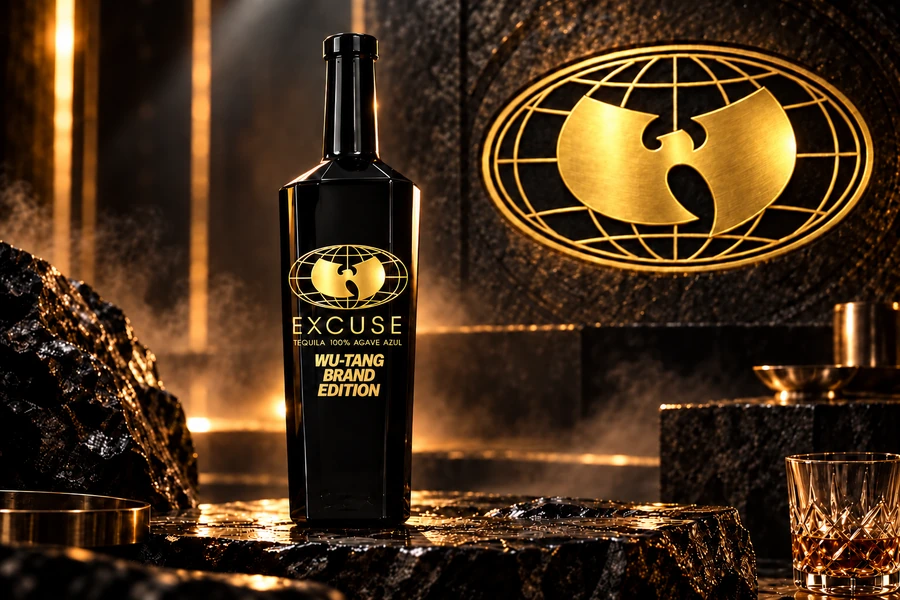
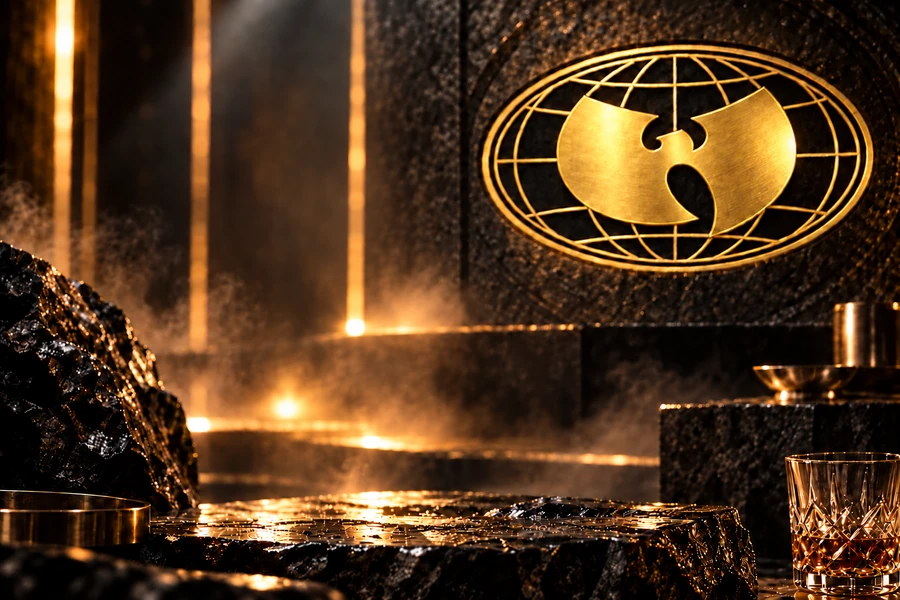
Remove black bottle from hero and edition artwork; revise hero and Reposado copy

diff --git a/client-revision/index.html b/client-revision/index.html
@@ -1,2 +1,2 @@
-<!doctype html><html lang="en"><head><meta charset="utf-8"><meta name="viewport" content="width=device-width,initial-scale=1"><meta name="description" content="Two expressions. One legacy. A cinematic world of culture, craft and collector design."><meta name="robots" content="noindex,nofollow"><meta property="og:title" content="EXCUSE WU TANG BRAND TEQUILA | Culture. Craft. Legacy."><meta property="og:description" content="Two expressions. One legacy. A cinematic world of culture, craft and collector design."><meta property="og:image" content="https://ernestyearby-svg.github.io/wutang-tequila-review/client-revision/assets/bright-gold/hero-desktop.webp"><meta property="og:site_name" content="EXCUSE WU TANG BRAND TEQUILA"><meta name="theme-color" content="#080807"><meta name="twitter:card" content="summary_large_image"><meta name="twitter:title" content="EXCUSE WU TANG BRAND TEQUILA | Culture. Craft. Legacy."><meta name="twitter:description" content="Two expressions. One legacy. A cinematic world of culture, craft and collector design."><title>EXCUSE WU TANG BRAND TEQUILA | Culture. Craft. Legacy.</title><link rel="icon" href="assets/bright-gold/logo-desktop.webp"><link rel="preload" as="image" href="assets/bright-gold/hero-desktop.webp"><link rel="stylesheet" href="styles.css"><script defer src="app.js"></script></head><body><a class="skip" href="#main">Skip to content</a><header class="header"><a class="brand" href="./" aria-label="EXCUSE WU TANG BRAND TEQUILA home"><img src="assets/bright-gold/logo-desktop.webp" width="160" height="101" alt="Approved Wu-Tang emblem"><span>EXCUSE<small>WU TANG BRAND TEQUILA</small></span></a><button class="menu-toggle" aria-controls="navigation" aria-expanded="false" aria-label="Open navigation"><span></span><span></span></button><nav id="navigation" aria-label="Main navigation"><a href="#collection">THE COLLECTION</a><a href="#craft">THE CRAFT</a><a href="#legacy">THE LEGACY</a><a href="collector-goods/">COLLECTOR GOODS</a><a href="#preorder">PRE-ORDER</a></nav></header><main id="main"><section id="home" class="hero immersive"><picture class="scene"><source media="(max-width:900px)" srcset="assets/bright-gold/hero-mobile-mobile.webp 900w, assets/bright-gold/hero-mobile-desktop.webp 1024w" sizes="100vw"><img src="assets/bright-gold/hero-desktop.webp" srcset="assets/bright-gold/hero-tablet.webp 1200w, assets/bright-gold/hero-desktop.webp 1672w" sizes="100vw" width="1672" height="941" alt="Collector decanter, presentation box and Brand Edition bottle on reflective obsidian" fetchpriority=high decoding="async"></picture><div class="hero-copy"><p class="eyebrow">EXCUSE WU TANG BRAND TEQUILA</p><h1>MORE THAN<br>TEQUILA.<em>IT’S A MOVEMENT.</em></h1><p class="strap">TWO EDITIONS. ONE LEGACY.</p><p class="body-copy">A collector expression and a bold brand edition, united by culture, craft, and legacy.</p><div class="actions"><a class="button" href="#preorder">PRE-ORDER <span>↗</span></a><a class="button outline" href="#collection">EXPLORE THE EDITIONS</a></div></div><div class="scene-caption"><span>100% AGAVE AZUL · CULTURE IN EVERY POUR</span><a href="#collection">DISCOVER THE COLLECTION ↓</a></div></section>
-<section id="collection" class="collection section"><div class="section-heading"><p class="eyebrow">01 / THE COLLECTION</p><h2>TWO EXPRESSIONS.<br><em>ONE LEGACY.</em></h2><p>Distinct expressions.<br>A shared cultural legacy.</p></div><div class="editions"><article class="edition"><picture class="scene"><source media="(max-width:900px)" srcset="assets/bright-gold/wu-edition-mobile.webp 900w, assets/bright-gold/wu-edition-desktop.webp 1536w" sizes="100vw"><img src="assets/bright-gold/wu-edition-desktop.webp" srcset="assets/bright-gold/wu-edition-tablet.webp 1200w, assets/bright-gold/wu-edition-desktop.webp 1536w" sizes="100vw" width="1536" height="1024" alt="THE WU EDITION" loading=lazy decoding="async"></picture><div class="edition-copy"><p class="eyebrow">LIMITED. RARE. COLLECTED.</p><h3>THE WU EDITION</h3><p>The collector expression of EXCUSE Tequila x Wu-Tang, presented in a distinctive decanter and collector presentation format.</p><button class="button outline" data-interest="WU Edition">PRE-ORDER WU EDITION<span aria-hidden="true">↗</span></button></div></article><article class="edition"><picture class="scene"><source media="(max-width:900px)" srcset="assets/bright-gold/brand-edition-mobile.webp 900w, assets/bright-gold/brand-edition-desktop.webp 1536w" sizes="100vw"><img src="assets/bright-gold/brand-edition-desktop.webp" srcset="assets/bright-gold/brand-edition-tablet.webp 1200w, assets/bright-gold/brand-edition-desktop.webp 1536w" sizes="100vw" width="1536" height="1024" alt="WU-TANG BRAND EDITION" loading=lazy decoding="async"></picture><div class="edition-copy"><p class="eyebrow">FOR THE WORLD.</p><h3>WU-TANG BRAND EDITION</h3><p>The core expression designed to bring EXCUSE Tequila x Wu-Tang to a broader audience. A new chapter in culture, craft and discovery.</p><button class="button outline" data-interest="WU-TANG Brand Edition">PRE-ORDER BRAND EDITION<span aria-hidden="true">↗</span></button></div></article></div></section><section id="preorder" class="reposado immersive"><picture class="scene"><source media="(max-width:900px)" srcset="assets/bright-gold/reposado-mobile-mobile.webp 900w, assets/bright-gold/reposado-mobile-desktop.webp 1024w" sizes="100vw"><img src="assets/bright-gold/reposado-desktop.webp" srcset="assets/bright-gold/reposado-tablet.webp 1200w, assets/bright-gold/reposado-desktop.webp 1672w" sizes="100vw" width="1672" height="941" alt="Reposado bottle and collector box overlooking the Empire State Building" loading=lazy decoding="async"></picture><div class="reposado-copy"><p class="eyebrow">02 / REPOSADO</p><h2>REPOSADO.<br><em>ROOTED IN<br>CULTURE.</em></h2><p class="strap">COMING SOON</p><p>A bold new EXCUSE Tequila expression created at the intersection of premium spirits, culture and legacy.</p><p class="micro">100% DE AGAVE AZUL</p><button class="button " data-interest="Reposado">RESERVE YOUR BOTTLE<span aria-hidden="true">↗</span></button></div></section><section id="craft" class="craft immersive"><picture class="scene"><source media="(max-width:900px)" srcset="assets/bright-gold/agave-mobile.webp 900w, assets/bright-gold/agave-desktop.webp 1672w" sizes="100vw"><img src="assets/bright-gold/agave-desktop.webp" srcset="assets/bright-gold/agave-tablet.webp 1200w, assets/bright-gold/agave-desktop.webp 1672w" sizes="100vw" width="1672" height="941" alt="Blue agave fields and volcanic stone at golden sunset" loading=lazy decoding="async"></picture><div class="craft-copy"><p class="eyebrow">03 / THE CRAFT</p><h2>CRAFTED BY NATURE.<br><em>DRIVEN BY CULTURE.</em></h2><p>100% Agave Azul. A premium tequila expression created for the next chapter of EXCUSE.</p></div></section><section id="legacy" class="legacy section"><picture class="scene"><source media="(max-width:900px)" srcset="assets/bright-gold/legacy-mobile.webp 900w, assets/bright-gold/legacy-desktop.webp 1672w" sizes="100vw"><img src="assets/bright-gold/legacy-desktop.webp" srcset="assets/bright-gold/legacy-tablet.webp 1200w, assets/bright-gold/legacy-desktop.webp 1672w" sizes="100vw" width="1672" height="941" alt="Gold-lit architecture, oval emblem and New York waterfront" loading=lazy decoding="async"></picture><div class="legacy-copy"><p class="eyebrow">04 / THE LEGACY</p><h2>BUILT ON CULTURE.<br><em>DESIGNED FOR<br>WHAT’S NEXT.</em></h2><p>EXCUSE Tequila x Wu-Tang brings together premium spirits, collectible design, and cultural legacy in a collaboration created for a new generation.</p><a class="button outline" href="#signup">JOIN THE MOVEMENT <span>↗</span></a></div></section><section class="teaser"><div class="teaser-heading"><p class="eyebrow">EXCUSE WU TANG BRAND TEQUILA / BEYOND THE BOTTLE</p><h2>COLLECTOR GOODS<br><em>ARE COMING.</em></h2><p>Apparel. Accessories. Barware. Limited releases.</p></div><picture class="scene"><source media="(max-width:900px)" srcset="assets/bright-gold/goods-campaign-mobile.webp 900w, assets/bright-gold/goods-campaign-desktop.webp 1672w" sizes="100vw"><img src="assets/bright-gold/goods-campaign-desktop.webp" srcset="assets/bright-gold/goods-campaign-tablet.webp 1200w, assets/bright-gold/goods-campaign-desktop.webp 1672w" sizes="100vw" width="1672" height="941" alt="Collector apparel, accessories and barware capsule campaign" loading=lazy decoding="async"></picture><a class="button teaser-cta" href="collector-goods/">EXPLORE COLLECTOR GOODS <span>↗</span></a></section><section id="signup" class="section signup"><div><p class="eyebrow">RELEASE ANNOUNCEMENTS / EARLY ACCESS</p><h2>BE FIRST INTO<br><em>THE NEXT CHAPTER.</em></h2></div><form id="signup-form"><label for="signup-email">EMAIL ADDRESS</label><div class="signup-row"><input id="signup-email" type="email" autocomplete="email" placeholder="Your email address" required><button class="button">JOIN THE LIST <span>↗</span></button></div><p class="preview-note">Preview only. Your email is not transmitted or saved.</p><p id="signup-status" role="status"></p></form></section></main><footer><a class="brand" href="./" aria-label="EXCUSE WU TANG BRAND TEQUILA home"><img src="assets/bright-gold/logo-desktop.webp" width="160" height="101" alt="Approved Wu-Tang emblem"><span>EXCUSE<small>WU TANG BRAND TEQUILA</small></span></a><nav aria-label="Footer"><a href="#preorder">PRE-ORDER</a><a href="collector-goods/">COLLECTOR GOODS</a><a href="#signup">JOIN THE LIST</a><button class="text-button" data-interest="General enquiry">CONTACT</button></nav><div class="footer-bottom"><span>PLEASE DRINK RESPONSIBLY. 21+</span><span>Designed &amp; Developed by Dynasty Works Studio</span></div></footer><dialog id="age-gate" aria-labelledby="age-title"><div class="age-content"><a class="brand" href="./" aria-label="EXCUSE WU TANG BRAND TEQUILA home"><img src="assets/bright-gold/logo-desktop.webp" width="160" height="101" alt="Approved Wu-Tang emblem"><span>EXCUSE<small>WU TANG BRAND TEQUILA</small></span></a><p class="eyebrow">CULTURE. CRAFT. LEGACY.</p><h2 id="age-title"><span class="welcome-line">WELCOME TO</span><span class="age-brand">EXCUSE<small>WU TANG BRAND TEQUILA</small></span></h2><p>Please confirm that you are 21 years of age or older.</p><div class="actions"><button class="button" id="age-accept">I AM 21+</button><button class="button outline" id="age-exit">EXIT</button></div><p class="responsible">PLEASE DRINK RESPONSIBLY. 21+</p></div></dialog><dialog id="interest" aria-labelledby="interest-title"><button class="close" aria-label="Close interest form">×</button><div id="interest-fields"><p class="eyebrow">RELEASE UPDATES / EARLY ACCESS</p><h2 id="interest-title">GET FIRST ACCESS.</h2><p>Register for release information and availability updates from EXCUSE WU TANG BRAND TEQUILA.</p><form id="interest-form"><div class="field-pair"><label>First Name<input name="firstName" autocomplete="given-name" required></label><label>Last Name<input name="lastName" autocomplete="family-name" required></label></div><label>Email<input name="email" type="email" autocomplete="email" required></label><label>Mobile Number <span>(optional)</span><input name="mobile" type="tel" autocomplete="tel"></label><fieldset><legend>Interested In</legend><div class="choices"><label><input type="checkbox" name="interests" value="Heavyweight Tee">Heavyweight Tee</label><label><input type="checkbox" name="interests" value="Collector Hoodie">Collector Hoodie</label><label><input type="checkbox" name="interests" value="Varsity Jacket">Varsity Jacket</label><label><input type="checkbox" name="interests" value="Premium Crewneck">Premium Crewneck</label><label><input type="checkbox" name="interests" value="Structured Cap">Structured Cap</label><label><input type="checkbox" name="interests" value="Collector Beanie">Collector Beanie</label><label><input type="checkbox" name="interests" value="Collector Duffel">Collector Duffel</label><label><input type="checkbox" name="interests" value="Barware Collection">Barware Collection</label><label><input type="checkbox" name="interests" value="Collector Box">Collector Box</label><label><input type="checkbox" name="interests" value="All Releases">All Releases</label></div></fieldset><p id="selected-interest" class="eyebrow"></p><p class="preview-note">Preview only. Your information is not transmitted or saved.</p><button class="button" type="submit">JOIN THE LIST</button></form></div><div id="interest-success" hidden role="status"><p class="eyebrow">PREVIEW CONFIRMATION</p><h2>YOU’RE ON THE LIST.</h2><p>This demonstrates the signup confirmation. Your information has not been transmitted or saved.</p><button class="button" data-close>CLOSE</button></div></dialog></body></html>
+<!doctype html><html lang="en"><head><meta charset="utf-8"><meta name="viewport" content="width=device-width,initial-scale=1"><meta name="description" content="Two expressions. One legacy. A cinematic world of culture, craft and collector design."><meta name="robots" content="noindex,nofollow"><meta property="og:title" content="EXCUSE WU TANG BRAND TEQUILA | Culture. Craft. Legacy."><meta property="og:description" content="Two expressions. One legacy. A cinematic world of culture, craft and collector design."><meta property="og:image" content="https://ernestyearby-svg.github.io/wutang-tequila-review/client-revision/assets/bright-gold/hero-desktop.webp"><meta property="og:site_name" content="EXCUSE WU TANG BRAND TEQUILA"><meta name="theme-color" content="#080807"><meta name="twitter:card" content="summary_large_image"><meta name="twitter:title" content="EXCUSE WU TANG BRAND TEQUILA | Culture. Craft. Legacy."><meta name="twitter:description" content="Two expressions. One legacy. A cinematic world of culture, craft and collector design."><title>EXCUSE WU TANG BRAND TEQUILA | Culture. Craft. Legacy.</title><link rel="icon" href="assets/bright-gold/logo-desktop.webp"><link rel="preload" as="image" href="assets/bright-gold/hero-desktop.webp"><link rel="stylesheet" href="styles.css"><script defer src="app.js"></script></head><body><a class="skip" href="#main">Skip to content</a><header class="header"><a class="brand" href="./" aria-label="EXCUSE WU TANG BRAND TEQUILA home"><img src="assets/bright-gold/logo-desktop.webp" width="160" height="101" alt="Approved Wu-Tang emblem"><span>EXCUSE<small>WU TANG BRAND TEQUILA</small></span></a><button class="menu-toggle" aria-controls="navigation" aria-expanded="false" aria-label="Open navigation"><span></span><span></span></button><nav id="navigation" aria-label="Main navigation"><a href="#collection">THE COLLECTION</a><a href="#craft">THE CRAFT</a><a href="#legacy">THE LEGACY</a><a href="collector-goods/">COLLECTOR GOODS</a><a href="#preorder">PRE-ORDER</a></nav></header><main id="main"><section id="home" class="hero immersive"><picture class="scene"><source media="(max-width:900px)" srcset="assets/bright-gold/hero-mobile-mobile.webp 900w, assets/bright-gold/hero-mobile-desktop.webp 1024w" sizes="100vw"><img src="assets/bright-gold/hero-desktop.webp" srcset="assets/bright-gold/hero-tablet.webp 1200w, assets/bright-gold/hero-desktop.webp 1672w" sizes="100vw" width="1672" height="941" alt="WU Edition collector decanter and presentation box on reflective obsidian" fetchpriority=high decoding="async"></picture><div class="hero-copy"><p class="eyebrow">EXCUSE WU TANG BRAND TEQUILA</p><h1>MORE THAN<br>TEQUILA.<em>IT’S A MOVEMENT.</em></h1><p class="strap">TRUE LEGACY.</p><p class="body-copy">A collector expression and a bold brand edition, united by culture, craft, and legacy.</p><div class="actions"><a class="button" href="#preorder">PRE-ORDER <span>↗</span></a><a class="button outline" href="#collection">EXPLORE THE EDITIONS</a></div></div><div class="scene-caption"><span>100% AGAVE AZUL · CULTURE IN EVERY POUR</span><a href="#collection">DISCOVER THE COLLECTION ↓</a></div></section>
+<section id="collection" class="collection section"><div class="section-heading"><p class="eyebrow">01 / THE COLLECTION</p><h2>TWO EXPRESSIONS.<br><em>ONE LEGACY.</em></h2><p>Distinct expressions.<br>A shared cultural legacy.</p></div><div class="editions"><article class="edition"><picture class="scene"><source media="(max-width:900px)" srcset="assets/bright-gold/wu-edition-mobile.webp 900w, assets/bright-gold/wu-edition-desktop.webp 1536w" sizes="100vw"><img src="assets/bright-gold/wu-edition-desktop.webp" srcset="assets/bright-gold/wu-edition-tablet.webp 1200w, assets/bright-gold/wu-edition-desktop.webp 1536w" sizes="100vw" width="1536" height="1024" alt="THE WU EDITION" loading=lazy decoding="async"></picture><div class="edition-copy"><p class="eyebrow">LIMITED. RARE. COLLECTED.</p><h3>THE WU EDITION</h3><p>The collector expression of EXCUSE Tequila x Wu-Tang, presented in a distinctive decanter and collector presentation format.</p><button class="button outline" data-interest="WU Edition">PRE-ORDER WU EDITION<span aria-hidden="true">↗</span></button></div></article><article class="edition"><picture class="scene"><source media="(max-width:900px)" srcset="assets/bright-gold/brand-edition-mobile.webp 900w, assets/bright-gold/brand-edition-desktop.webp 1536w" sizes="100vw"><img src="assets/bright-gold/brand-edition-desktop.webp" srcset="assets/bright-gold/brand-edition-tablet.webp 1200w, assets/bright-gold/brand-edition-desktop.webp 1536w" sizes="100vw" width="1536" height="1024" alt="WU-TANG BRAND EDITION" loading=lazy decoding="async"></picture><div class="edition-copy"><p class="eyebrow">FOR THE WORLD.</p><h3>WU-TANG BRAND EDITION</h3><p>The core expression designed to bring EXCUSE Tequila x Wu-Tang to a broader audience. A new chapter in culture, craft and discovery.</p><button class="button outline" data-interest="WU-TANG Brand Edition">PRE-ORDER BRAND EDITION<span aria-hidden="true">↗</span></button></div></article></div></section><section id="preorder" class="reposado immersive"><picture class="scene"><source media="(max-width:900px)" srcset="assets/bright-gold/reposado-mobile-mobile.webp 900w, assets/bright-gold/reposado-mobile-desktop.webp 1024w" sizes="100vw"><img src="assets/bright-gold/reposado-desktop.webp" srcset="assets/bright-gold/reposado-tablet.webp 1200w, assets/bright-gold/reposado-desktop.webp 1672w" sizes="100vw" width="1672" height="941" alt="Reposado bottle and collector box overlooking the Empire State Building" loading=lazy decoding="async"></picture><div class="reposado-copy"><p class="eyebrow">02 / REPOSADO</p><h2>REPOSADO.<br><em>ROOTED IN<br>CULTURE.</em></h2><p class="strap">WELCOME TO THE WU.</p><p>A bold new EXCUSE Tequila expression created at the intersection of premium spirits, culture and legacy.</p><p class="micro">100% DE AGAVE AZUL</p><button class="button " data-interest="Reposado">RESERVE YOUR BOTTLE<span aria-hidden="true">↗</span></button></div></section><section id="craft" class="craft immersive"><picture class="scene"><source media="(max-width:900px)" srcset="assets/bright-gold/agave-mobile.webp 900w, assets/bright-gold/agave-desktop.webp 1672w" sizes="100vw"><img src="assets/bright-gold/agave-desktop.webp" srcset="assets/bright-gold/agave-tablet.webp 1200w, assets/bright-gold/agave-desktop.webp 1672w" sizes="100vw" width="1672" height="941" alt="Blue agave fields and volcanic stone at golden sunset" loading=lazy decoding="async"></picture><div class="craft-copy"><p class="eyebrow">03 / THE CRAFT</p><h2>CRAFTED BY NATURE.<br><em>DRIVEN BY CULTURE.</em></h2><p>100% Agave Azul. A premium tequila expression created for the next chapter of EXCUSE.</p></div></section><section id="legacy" class="legacy section"><picture class="scene"><source media="(max-width:900px)" srcset="assets/bright-gold/legacy-mobile.webp 900w, assets/bright-gold/legacy-desktop.webp 1672w" sizes="100vw"><img src="assets/bright-gold/legacy-desktop.webp" srcset="assets/bright-gold/legacy-tablet.webp 1200w, assets/bright-gold/legacy-desktop.webp 1672w" sizes="100vw" width="1672" height="941" alt="Gold-lit architecture, oval emblem and New York waterfront" loading=lazy decoding="async"></picture><div class="legacy-copy"><p class="eyebrow">04 / THE LEGACY</p><h2>BUILT ON CULTURE.<br><em>DESIGNED FOR<br>WHAT’S NEXT.</em></h2><p>EXCUSE Tequila x Wu-Tang brings together premium spirits, collectible design, and cultural legacy in a collaboration created for a new generation.</p><a class="button outline" href="#signup">JOIN THE MOVEMENT <span>↗</span></a></div></section><section class="teaser"><div class="teaser-heading"><p class="eyebrow">EXCUSE WU TANG BRAND TEQUILA / BEYOND THE BOTTLE</p><h2>COLLECTOR GOODS<br><em>ARE COMING.</em></h2><p>Apparel. Accessories. Barware. Limited releases.</p></div><picture class="scene"><source media="(max-width:900px)" srcset="assets/bright-gold/goods-campaign-mobile.webp 900w, assets/bright-gold/goods-campaign-desktop.webp 1672w" sizes="100vw"><img src="assets/bright-gold/goods-campaign-desktop.webp" srcset="assets/bright-gold/goods-campaign-tablet.webp 1200w, assets/bright-gold/goods-campaign-desktop.webp 1672w" sizes="100vw" width="1672" height="941" alt="Collector apparel, accessories and barware capsule campaign" loading=lazy decoding="async"></picture><a class="button teaser-cta" href="collector-goods/">EXPLORE COLLECTOR GOODS <span>↗</span></a></section><section id="signup" class="section signup"><div><p class="eyebrow">RELEASE ANNOUNCEMENTS / EARLY ACCESS</p><h2>BE FIRST INTO<br><em>THE NEXT CHAPTER.</em></h2></div><form id="signup-form"><label for="signup-email">EMAIL ADDRESS</label><div class="signup-row"><input id="signup-email" type="email" autocomplete="email" placeholder="Your email address" required><button class="button">JOIN THE LIST <span>↗</span></button></div><p class="preview-note">Preview only. Your email is not transmitted or saved.</p><p id="signup-status" role="status"></p></form></section></main><footer><a class="brand" href="./" aria-label="EXCUSE WU TANG BRAND TEQUILA home"><img src="assets/bright-gold/logo-desktop.webp" width="160" height="101" alt="Approved Wu-Tang emblem"><span>EXCUSE<small>WU TANG BRAND TEQUILA</small></span></a><nav aria-label="Footer"><a href="#preorder">PRE-ORDER</a><a href="collector-goods/">COLLECTOR GOODS</a><a href="#signup">JOIN THE LIST</a><button class="text-button" data-interest="General enquiry">CONTACT</button></nav><div class="footer-bottom"><span>PLEASE DRINK RESPONSIBLY. 21+</span><span>Designed &amp; Developed by Dynasty Works Studio</span></div></footer><dialog id="age-gate" aria-labelledby="age-title"><div class="age-content"><a class="brand" href="./" aria-label="EXCUSE WU TANG BRAND TEQUILA home"><img src="assets/bright-gold/logo-desktop.webp" width="160" height="101" alt="Approved Wu-Tang emblem"><span>EXCUSE<small>WU TANG BRAND TEQUILA</small></span></a><p class="eyebrow">CULTURE. CRAFT. LEGACY.</p><h2 id="age-title"><span class="welcome-line">WELCOME TO</span><span class="age-brand">EXCUSE<small>WU TANG BRAND TEQUILA</small></span></h2><p>Please confirm that you are 21 years of age or older.</p><div class="actions"><button class="button" id="age-accept">I AM 21+</button><button class="button outline" id="age-exit">EXIT</button></div><p class="responsible">PLEASE DRINK RESPONSIBLY. 21+</p></div></dialog><dialog id="interest" aria-labelledby="interest-title"><button class="close" aria-label="Close interest form">×</button><div id="interest-fields"><p class="eyebrow">RELEASE UPDATES / EARLY ACCESS</p><h2 id="interest-title">GET FIRST ACCESS.</h2><p>Register for release information and availability updates from EXCUSE WU TANG BRAND TEQUILA.</p><form id="interest-form"><div class="field-pair"><label>First Name<input name="firstName" autocomplete="given-name" required></label><label>Last Name<input name="lastName" autocomplete="family-name" required></label></div><label>Email<input name="email" type="email" autocomplete="email" required></label><label>Mobile Number <span>(optional)</span><input name="mobile" type="tel" autocomplete="tel"></label><fieldset><legend>Interested In</legend><div class="choices"><label><input type="checkbox" name="interests" value="Heavyweight Tee">Heavyweight Tee</label><label><input type="checkbox" name="interests" value="Collector Hoodie">Collector Hoodie</label><label><input type="checkbox" name="interests" value="Varsity Jacket">Varsity Jacket</label><label><input type="checkbox" name="interests" value="Premium Crewneck">Premium Crewneck</label><label><input type="checkbox" name="interests" value="Structured Cap">Structured Cap</label><label><input type="checkbox" name="interests" value="Collector Beanie">Collector Beanie</label><label><input type="checkbox" name="interests" value="Collector Duffel">Collector Duffel</label><label><input type="checkbox" name="interests" value="Barware Collection">Barware Collection</label><label><input type="checkbox" name="interests" value="Collector Box">Collector Box</label><label><input type="checkbox" name="interests" value="All Releases">All Releases</label></div></fieldset><p id="selected-interest" class="eyebrow"></p><p class="preview-note">Preview only. Your information is not transmitted or saved.</p><button class="button" type="submit">JOIN THE LIST</button></form></div><div id="interest-success" hidden role="status"><p class="eyebrow">PREVIEW CONFIRMATION</p><h2>YOU’RE ON THE LIST.</h2><p>This demonstrates the signup confirmation. Your information has not been transmitted or saved.</p><button class="button" data-close>CLOSE</button></div></dialog></body></html>
